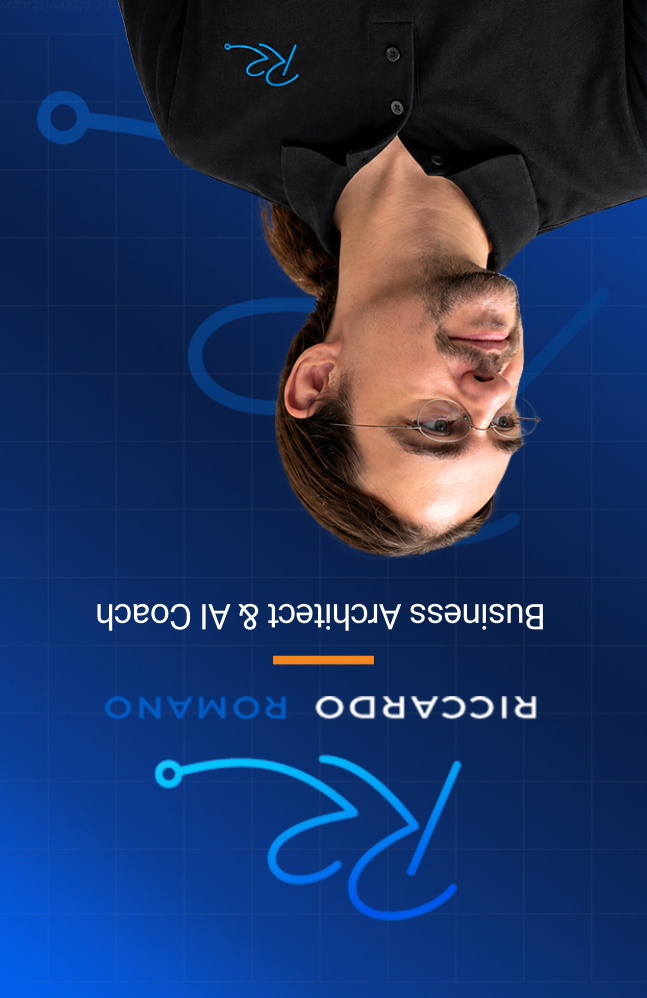
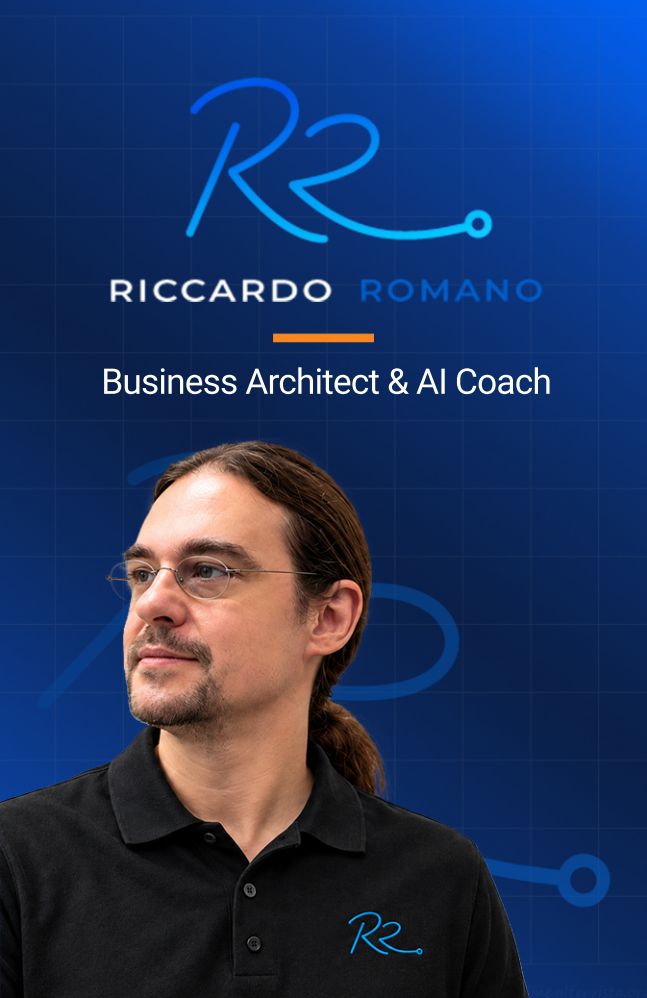
Fix Ricky card orientation and cover fit

diff --git a/c/7fK29mQx84Nz-ricky/index.html b/c/7fK29mQx84Nz-ricky/index.html
@@ -20,7 +20,7 @@
     body::before{content:"";position:fixed;inset:0;pointer-events:none;background:linear-gradient(rgba(255,255,255,.035) 1px,transparent 1px),linear-gradient(90deg,rgba(255,255,255,.03) 1px,transparent 1px);background-size:52px 52px;mask-image:radial-gradient(circle at center,black,transparent 78%)}
     button,input{font:inherit} a{color:inherit}.page{position:relative;z-index:1;width:min(100%,1180px);min-height:100svh;margin:0 auto;padding:max(20px,env(safe-area-inset-top)) 18px max(16px,env(safe-area-inset-bottom));display:grid;grid-template-rows:1fr auto;gap:18px}.stage{display:grid;place-items:center;width:100%}.hero{width:100%;display:grid;grid-template-columns:minmax(420px,620px) minmax(320px,430px);align-items:center;justify-content:center;gap:clamp(28px,5vw,64px)}
     .card-zone{width:100%;display:grid;justify-items:center;gap:18px}.card-wrap{width:min(100%,380px);perspective:1400px}.business-card{width:100%;aspect-ratio:var(--card-ratio);position:relative;border:0;border-radius:26px;background:transparent;color:inherit;cursor:pointer;display:block;touch-action:pan-y;-webkit-tap-highlight-color:transparent}.business-card:focus-visible{outline:3px solid rgba(255,180,0,.9);outline-offset:8px}.card-inner{position:absolute;inset:0;transform-style:preserve-3d;transition:transform .72s cubic-bezier(.2,.72,.2,1)}.business-card.is-flipped .card-inner{transform:rotateY(180deg)}@media (hover:hover) and (pointer:fine){.business-card:hover .card-inner{transform:rotateY(180deg)}}
-    .card-face{position:absolute;inset:0;overflow:hidden;border-radius:26px;backface-visibility:hidden;background:#fff;box-shadow:var(--shadow);border:3px solid var(--orange)}.card-face::after{content:"";position:absolute;inset:0;border-radius:23px;pointer-events:none;box-shadow:inset 0 1px 0 rgba(255,255,255,.5),inset 0 -16px 34px rgba(0,0,0,.06)}.card-front img{width:100%;height:100%;display:block;object-fit:contain;background:#fff}.card-back{transform:rotateY(180deg);background:linear-gradient(135deg,#fff 0%,#f7f8fc 54%,#eef2ff 100%);color:var(--ink);display:grid;grid-template-columns:.92fr 1.08fr;align-items:center;padding:clamp(18px,3vw,34px);gap:22px}.back-portrait{align-self:stretch;border-radius:22px;background:linear-gradient(160deg,rgba(46,107,255,.1),rgba(255,122,0,.12));border:1px solid rgba(16,32,62,.12);display:grid;place-items:center;position:relative;overflow:hidden}.placeholder-person{width:72%;aspect-ratio:.72;border-radius:999px 999px 30px 30px;background:linear-gradient(150deg,rgba(16,32,62,.16),rgba(46,107,255,.22));position:relative}.placeholder-person::after{content:"→";position:absolute;right:-22%;top:38%;font-size:clamp(2.4rem,5vw,4rem);font-weight:900;color:var(--orange)}.back-copy h2{font-size:clamp(1.55rem,3vw,2.55rem);line-height:.98;letter-spacing:-.06em;font-weight:900;margin-bottom:.7rem}.back-copy p{font-size:clamp(.9rem,1.4vw,1.04rem);color:#41516f;font-weight:650}.back-copy small{display:block;margin-top:1rem;color:#6b7894;font-weight:750}.mobile-arrow{display:none;color:var(--orange);font-size:2.7rem;line-height:1;font-weight:900;animation:downPulse 1.45s ease-in-out infinite;text-shadow:0 10px 24px rgba(255,122,0,.32)}@keyframes downPulse{0%,100%{transform:translateY(0);opacity:.78}50%{transform:translateY(8px);opacity:1}}
+    .card-face{position:absolute;inset:0;overflow:hidden;border-radius:26px;backface-visibility:hidden;background:#fff;box-shadow:var(--shadow);border:3px solid var(--orange)}.card-face::after{content:"";position:absolute;inset:0;border-radius:23px;pointer-events:none;box-shadow:inset 0 1px 0 rgba(255,255,255,.5),inset 0 -16px 34px rgba(0,0,0,.06)}.card-front img{width:100%;height:100%;display:block;object-fit:cover;background:#fff}.card-back{transform:rotateY(180deg);background:linear-gradient(135deg,#fff 0%,#f7f8fc 54%,#eef2ff 100%);color:var(--ink);display:grid;grid-template-columns:.92fr 1.08fr;align-items:center;padding:clamp(18px,3vw,34px);gap:22px}.back-portrait{align-self:stretch;border-radius:22px;background:linear-gradient(160deg,rgba(46,107,255,.1),rgba(255,122,0,.12));border:1px solid rgba(16,32,62,.12);display:grid;place-items:center;position:relative;overflow:hidden}.placeholder-person{width:72%;aspect-ratio:.72;border-radius:999px 999px 30px 30px;background:linear-gradient(150deg,rgba(16,32,62,.16),rgba(46,107,255,.22));position:relative}.placeholder-person::after{content:"→";position:absolute;right:-22%;top:38%;font-size:clamp(2.4rem,5vw,4rem);font-weight:900;color:var(--orange)}.back-copy h2{font-size:clamp(1.55rem,3vw,2.55rem);line-height:.98;letter-spacing:-.06em;font-weight:900;margin-bottom:.7rem}.back-copy p{font-size:clamp(.9rem,1.4vw,1.04rem);color:#41516f;font-weight:650}.back-copy small{display:block;margin-top:1rem;color:#6b7894;font-weight:750}.mobile-arrow{display:none;color:var(--orange);font-size:2.7rem;line-height:1;font-weight:900;animation:downPulse 1.45s ease-in-out infinite;text-shadow:0 10px 24px rgba(255,122,0,.32)}@keyframes downPulse{0%,100%{transform:translateY(0);opacity:.78}50%{transform:translateY(8px);opacity:1}}
     .actions-panel{width:100%;max-width:430px}.actions-title{font-weight:900;font-size:clamp(1.75rem,3vw,2.45rem);line-height:1;letter-spacing:-.055em;margin-bottom:.65rem}.actions-title span{color:var(--gold)}.actions-sub{color:var(--muted);margin-bottom:1rem}.cta-list{display:grid;gap:10px}.cta{width:100%;min-height:58px;border:1px solid rgba(255,255,255,.16);border-radius:18px;background:rgba(255,255,255,.1);backdrop-filter:blur(14px);color:#fff;text-decoration:none;display:flex;align-items:center;justify-content:space-between;gap:12px;padding:13px 15px;cursor:pointer;transition:transform .18s ease,background .18s ease,border-color .18s ease}.cta:hover,.cta:focus-visible{transform:translateY(-2px);background:rgba(255,255,255,.15);border-color:rgba(255,180,0,.45);outline:0}.cta strong{font-size:.96rem}.cta small{color:rgba(255,255,255,.62);font-weight:700}.cta.primary{background:linear-gradient(135deg,var(--gold),var(--orange));color:var(--ink);border-color:rgba(255,180,0,.5);box-shadow:0 16px 34px rgba(255,122,0,.24)}.cta.primary small{color:rgba(16,32,62,.72)}.cta.secondary{min-height:54px}.chev{font-weight:900;font-size:1.2rem}.contact-panel{display:grid;grid-template-rows:0fr;transition:grid-template-rows .32s ease;margin-top:-4px}.contact-panel.is-open{grid-template-rows:1fr;margin-top:0}.contact-panel-inner{overflow:hidden}.form-card{border:1px solid rgba(255,255,255,.16);background:rgba(255,255,255,.1);backdrop-filter:blur(14px);border-radius:18px;padding:14px;margin-top:8px}.form-grid{display:grid;grid-template-columns:1fr 1fr;gap:10px}.field.full{grid-column:1/-1}label{display:block;font-size:.74rem;font-weight:850;color:rgba(255,255,255,.74);margin:0 0 5px 2px}input{width:100%;height:48px;border-radius:14px;border:1px solid rgba(255,255,255,.14);background:rgba(3,10,26,.34);color:#fff;padding:0 12px;outline:0}input:focus{border-color:rgba(255,180,0,.78);box-shadow:0 0 0 4px rgba(255,180,0,.12)}.hp{position:absolute;left:-9999px}.turnstile-wrap{min-height:65px;margin-top:10px;display:flex;align-items:center}.form-actions{display:flex;gap:10px;margin-top:10px}.submit,.close-form{border:0;border-radius:999px;min-height:48px;font-weight:900;cursor:pointer}.submit{flex:1;background:linear-gradient(135deg,var(--gold),var(--orange));color:var(--ink)}.close-form{padding:0 16px;background:rgba(255,255,255,.12);color:#fff}.form-note,.status{font-size:.77rem;color:rgba(255,255,255,.58);margin-top:10px}.status{font-weight:800}.success-box{display:none;border:1px solid rgba(34,197,94,.32);background:rgba(34,197,94,.14);border-radius:18px;padding:14px;margin-top:10px}.success-box.is-visible{display:block}.success-box strong{display:block;color:#d8ffe6;margin-bottom:4px}.success-box .cta{margin-top:10px}.footer-note{display:flex;justify-content:center;gap:14px;flex-wrap:wrap;color:rgba(255,255,255,.58);font-size:.82rem}.footer-note a{color:rgba(255,255,255,.72);text-decoration:none}.footer-note a:hover{text-decoration:underline}
     @media (max-width:900px){.page{padding-top:18px}.hero{grid-template-columns:1fr;gap:14px;align-content:start}.card-wrap{width:min(82vw,340px)}.actions-panel{max-width:520px}.actions-title,.actions-sub{display:none}.mobile-arrow{display:block}.card-back{grid-template-columns:1fr;padding:18px;text-align:center}.back-portrait{min-height:118px}.placeholder-person{width:36%;max-width:120px}.placeholder-person::after{content:"↓";right:50%;top:auto;bottom:-38%;transform:translateX(50%)}.back-copy h2{font-size:clamp(1.45rem,8vw,2rem)}}
     @media (max-width:560px){.page{padding-left:12px;padding-right:12px}.card-wrap{width:min(84vw,320px)}.business-card,.card-face{border-radius:20px}.card-face{border-width:2px}.card-face::after{border-radius:18px}.cta{border-radius:16px}.form-grid{grid-template-columns:1fr}.form-actions{flex-direction:column}.close-form{width:100%}.footer-note{font-size:.76rem}}
